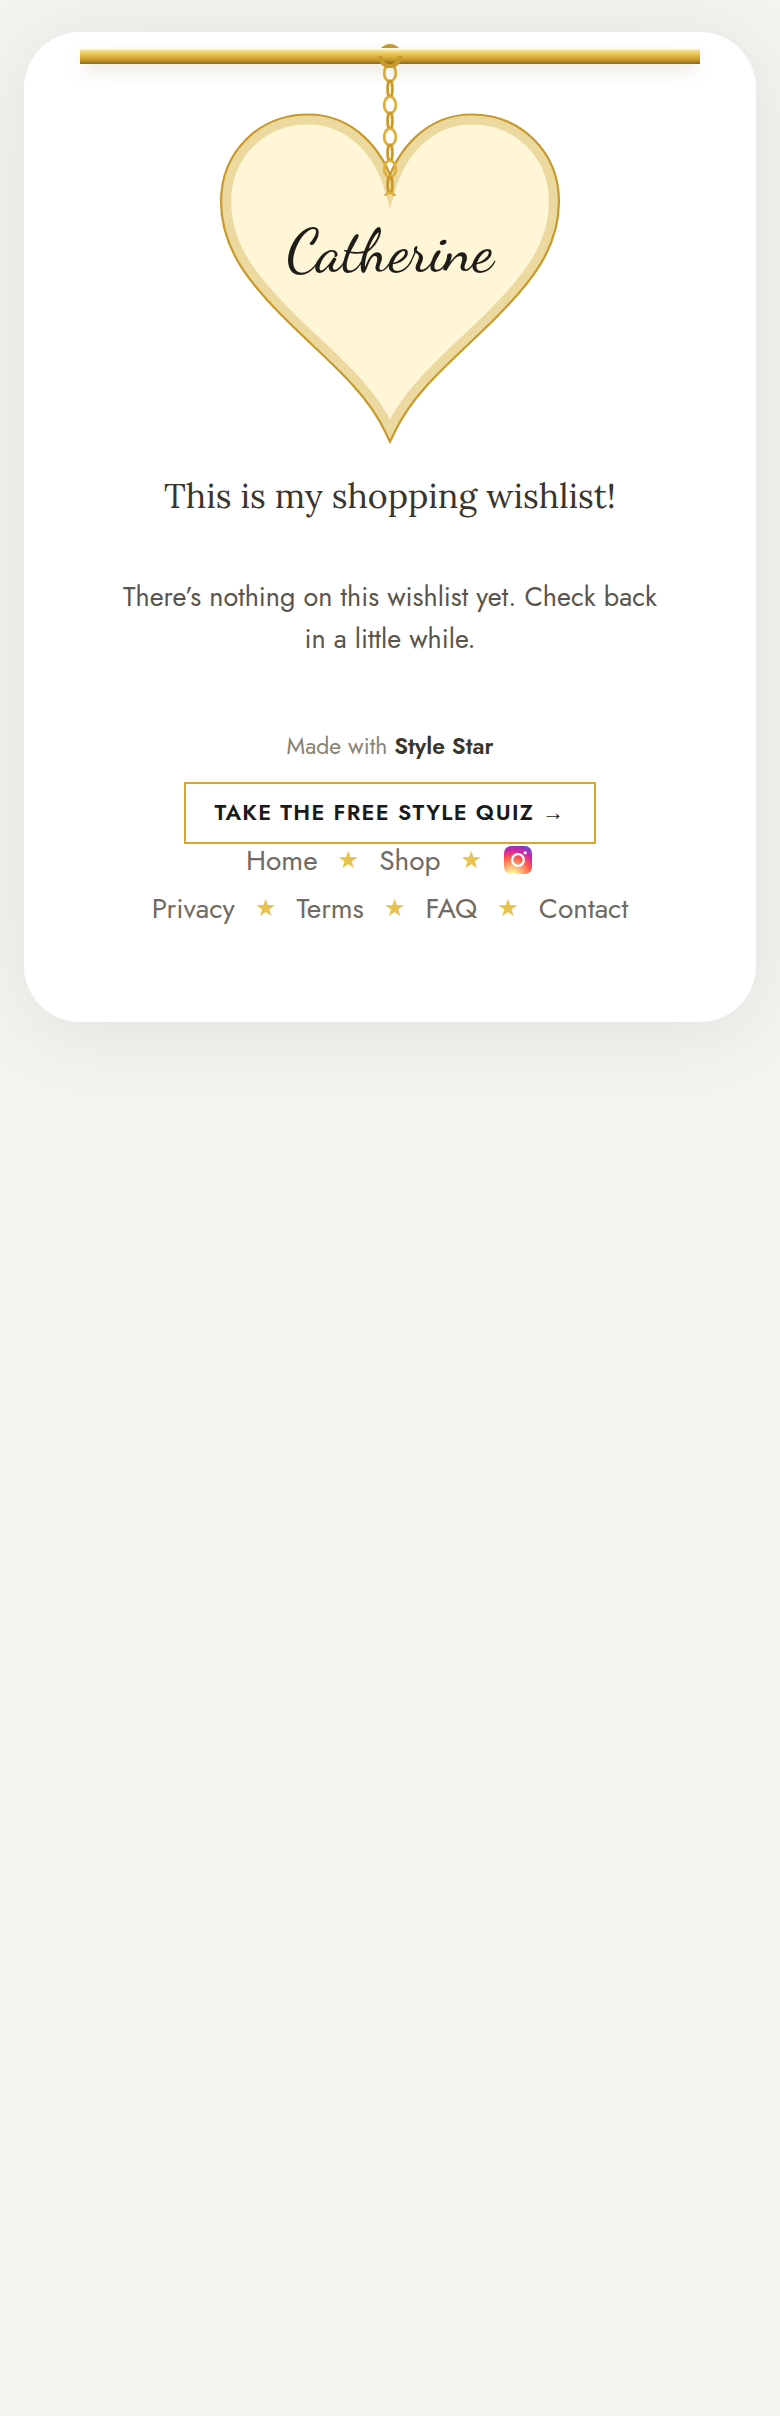
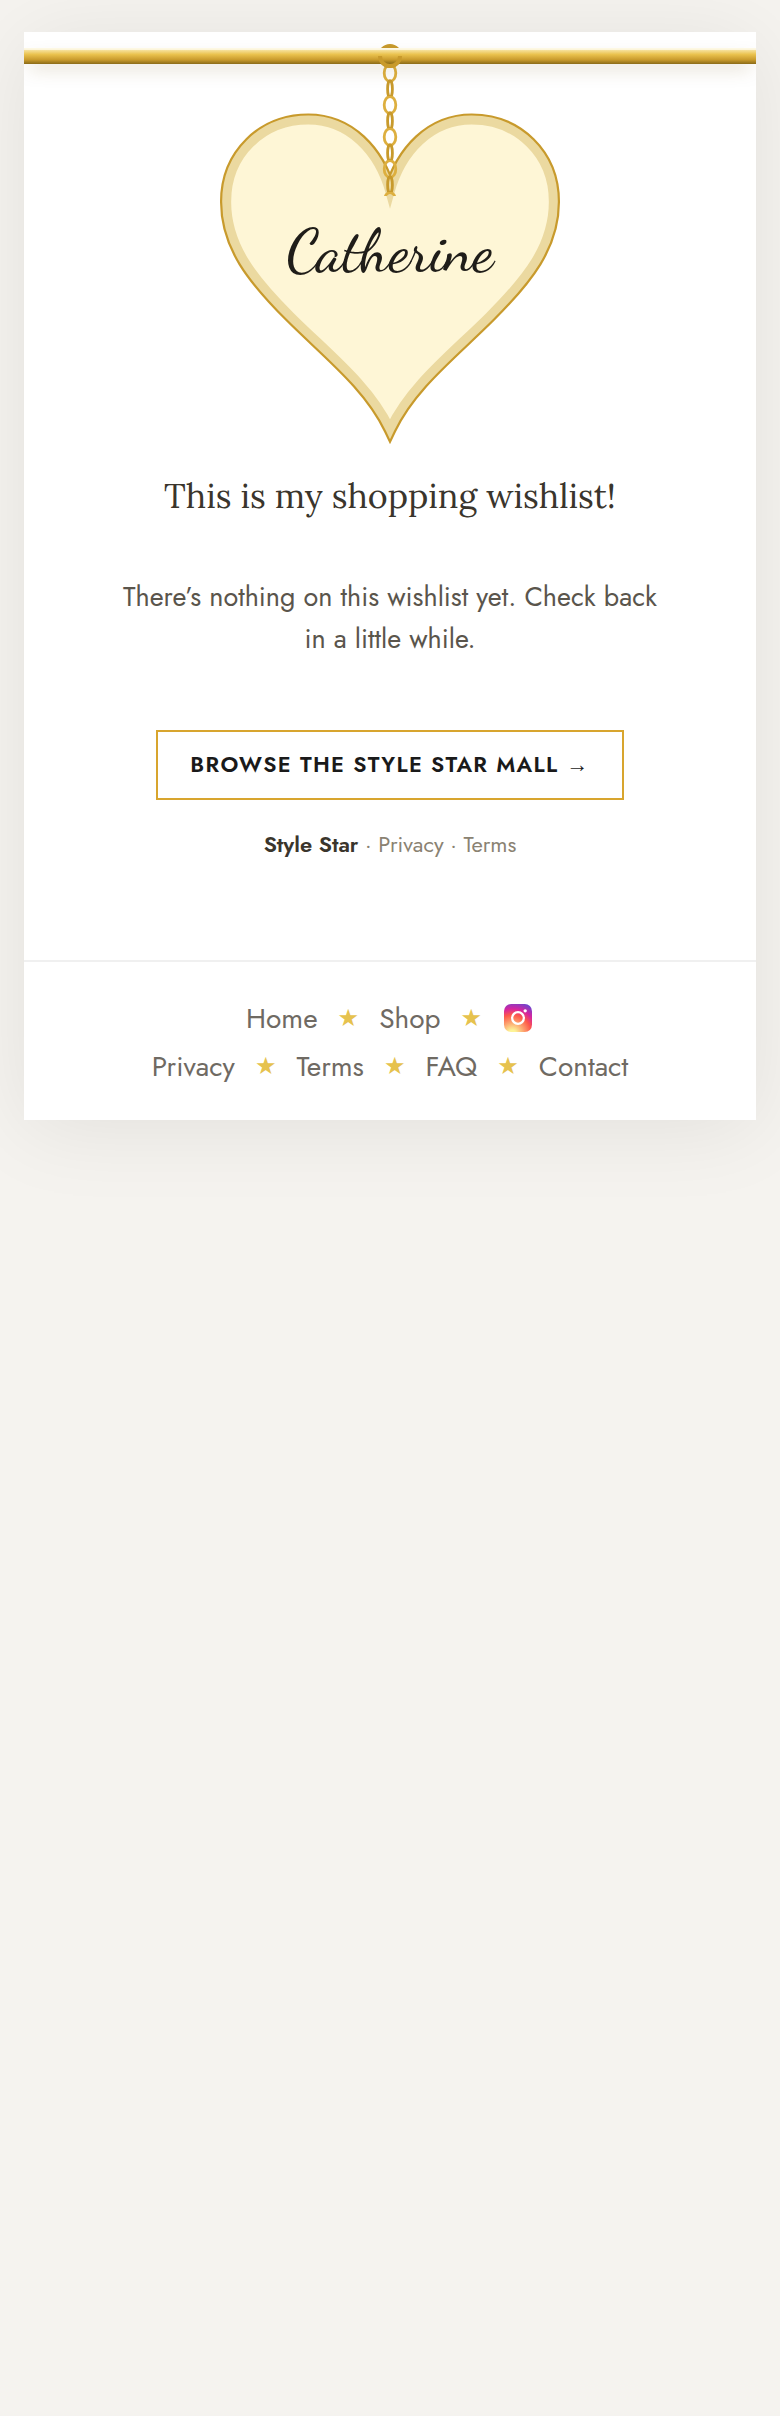
Her four adjustments to the shared page, and the footer that came back
1. SQUARED, not rounded. s-sharelist joins the screens that already square the
   card, so the crown's rod meets a corner rather than a curve.

2. THE ROD REACHES THE CARD'S EDGES. -44px is MEASURED, not chosen: .scr pads
   16px and .inner pads 28px, and 44px is exactly what escapes both to land on
   .ss's own edge (12→378 at 390px). It lands FLUSH rather than overhanging,
   which is load-bearing -- .ss carries overflow:hidden, so anything past the
   edge is clipped away rather than bleeding. If either padding changes, this
   number changes with it.

3. TIGHTER AIR between her line, the disclosure and the first group header
   (disclosure 26 -> 13px, first header 24 -> 12px). ⚠ Not a reversal of the
   "push it lower" call two rounds ago: that one was about the disclosure
   crowding her NAME. This is the whole block being too airy once the name
   moved inside the heart.

4. THE TAIL IS HERS. The quiz button and the two-row footer are gone -- her
   read, and it is right: a page of app chrome under somebody's personal gift
   list reads as an advertisement stapled to it. ▶ What replaces it is HER
   idea and it is the better one: ONE Mall entry, for a reader who wants to
   browse rather than buy a named piece. The quiz button was asking a stranger
   for twelve answers before giving them anything.
   ⚠ THE LEGAL PAIR STAYS, deliberately and against "we don't need any of
   that here", and she was told plainly: this is a public page carrying
[…]

diff --git a/index.html b/index.html
@@ -1262,7 +1262,12 @@ html.edit-velvet,html.edit-velvet body{background:#0E7F8C}
    matters more than the last few pixels of bleed, and a rod in flow gets
    that for free with no scroll listener at all. Don't 'upgrade' it to
    fixed without bringing the scroll sync with it. */
-#s-sharelist .sh-rodwrap{position:relative;height:8px;margin:0 -16px}
+/* ⚠ -44px is MEASURED, not chosen: .scr pads 16px and .inner pads 28px, so
+   44px is exactly what it takes to reach .ss's own edges (12→378 at 390).
+   It lands flush rather than overhanging, which matters because .ss carries
+   overflow:hidden -- anything past the edge is simply clipped away. If either
+   padding ever changes, this number changes with it. */
+#s-sharelist .sh-rodwrap{position:relative;height:8px;margin:0 -44px}
 #s-sharelist .sh-rod{position:absolute;inset:0;height:8px;z-index:6;background:linear-gradient(180deg,#FBF1C2 0%,#EAC24E 40%,#C89A2C 74%,#8a6a17 100%);box-shadow:0 4px 9px -3px rgba(120,90,20,.5),inset 0 1px 0 rgba(255,255,255,.6)}
 #s-sharelist .sh-crown{position:relative;width:196px;height:196px;margin:6px auto 0}
 #s-sharelist .sh-chain{position:absolute;left:calc(50% - 4px);bottom:calc(100% - 60px);width:8px;height:66px;z-index:1}
@@ -1277,11 +1282,14 @@ html.edit-velvet,html.edit-velvet body{background:#0E7F8C}
 /* ⚠ Pushed lower at her ask, but it CANNOT move below the list: the FTC
    guidance and every affiliate reviewer expect a disclosure above the links
    it describes. Its position is the one thing here that is not a taste call. */
-#s-sharelist .sh-disc{font:400 11.5px/1.4 'DM Sans',sans-serif;color:#6e6e6e;text-align:center;margin:26px 0 0}
+#s-sharelist .sh-disc{font:400 11.5px/1.4 'DM Sans',sans-serif;color:#6e6e6e;text-align:center;margin:13px 0 0}
+/* The first group follows the disclosure and needs less air than the second,
+   which follows a whole card of rows. */
+#s-sharelist .sh-disc+.sh-gh{margin-top:12px}
 /* Both group headers reuse HER approved section-header mark: a 2px #D8A52E bar
    hugging the word, exactly as the wardrobe categories and the Menu groups do.
    Grep wdr-cat-t before restyling either -- they are meant to match. */
-#s-sharelist .sh-gh{margin:24px 0 0;text-align:center}
+#s-sharelist .sh-gh{margin:22px 0 0;text-align:center}
 #s-sharelist .sh-gh span{display:inline-block;position:relative;padding:0 2px 6px;font:700 15px/1 'Jost',sans-serif;letter-spacing:.14em;text-transform:uppercase;color:#26221c}
 #s-sharelist .sh-gh span::after{content:"";position:absolute;left:2px;right:-2px;bottom:0;height:2px;background:#D8A52E}
 #s-sharelist .sh-card{background:#fff;border:1px solid #e7e0cf;padding:2px 12px 4px;margin-top:9px}
@@ -1301,10 +1309,22 @@ html.edit-velvet,html.edit-velvet body{background:#0E7F8C}
    marks it as an annotation so it can never read as the retailer's copy. */
 #s-sharelist .sh-note{display:block;font:400 12.5px/1.5 'Jost',sans-serif;color:#5a554c;margin-top:7px;padding-left:9px;border-left:2px solid #E0B84C}
 #s-sharelist .sh-go{flex:0 0 auto;margin-top:2px;font:600 11px/1 'Jost',sans-serif;letter-spacing:.05em;text-transform:uppercase;color:#fff;background:#1a1a1a;border-radius:999px;padding:9px 12px;text-decoration:none;white-space:nowrap}
+/* HER CALL 2026-08-22: the quiz button and the full two-row footer are gone.
+   This is somebody's personal wishlist, not the app's front door, and a page
+   of app chrome under it read as an advertisement stapled to a gift list.
+   ▶ What replaces it is HER idea and it is the better one: ONE way in, for a
+   reader who wants to browse rather than buy a named piece. The Mall is
+   exactly that door.
+   ⚠ The legal pair STAYS, deliberately and against "we don't need any of
+   that here": this is a public page carrying affiliate links and running
+   analytics, and a reachable privacy policy is both ordinary good practice
+   and the specific thing affiliate reviewers look for. It is one 11px line,
+   not a footer. */
 #s-sharelist .sh-foot{text-align:center;margin-top:24px}
-#s-sharelist .sh-f1{font:400 11.5px/1.5 'Jost',sans-serif;color:#8a8272}
-#s-sharelist .sh-f1 b{color:#3a352c;font-weight:600}
-#s-sharelist .sh-f2{display:inline-block;margin-top:9px;font:600 11px/1 'Jost',sans-serif;letter-spacing:.06em;text-transform:uppercase;color:#1a1a1a;border:1px solid #D8A52E;padding:9px 14px;text-decoration:none;cursor:pointer}
+#s-sharelist .sh-f2{display:inline-block;font:600 11px/1 'Jost',sans-serif;letter-spacing:.06em;text-transform:uppercase;color:#1a1a1a;border:1px solid #D8A52E;padding:11px 16px;text-decoration:none;cursor:pointer}
+#s-sharelist .sh-legal{font:400 11px/1.5 'Jost',sans-serif;color:#8a8272;margin-top:14px}
+#s-sharelist .sh-legal .lnk{color:#8a8272;cursor:pointer;text-decoration:none}
+#s-sharelist .sh-legal b{color:#3a352c;font-weight:600}
 /* Waiting, gone and empty are all real states of this page -- somebody arrives
    here from a text message with no idea what to expect, so none of them may be
    a blank screen or a raw error. */
@@ -4164,7 +4184,6 @@ body.ss-play .hm-entrance{animation:ssOverlayOut .55s ease 1.6s forwards}
     <div class="sh-nm" id="shName"></div>
   </div>
   <div id="shBody"></div>
-  <div class="wl-foot" data-std-foot></div>
 </div>
 
 <div class="scr" id="s-faq">
@@ -4636,7 +4655,13 @@ function show(id,skipHistory){
   // of their own but still want the global one hidden (the quiz, preferences).
   var scrEl=document.getElementById(id);
   var ownFoot=!!(scrEl&&scrEl.querySelector('[data-std-foot]'));
-  if(gf)gf.style.display=(ownChrome||ownFoot||id==='s-shop'||id==='s-quiz'||id==='s-faq'||id==='s-pref'||id==='s-story'||id==='s-privacy'||id==='s-terms'||id==='s-contact'||id==='s-a2hs'||id==='s-wardrobe'||id==='s-wishlist')?'none':'';
+  // ⚠ s-sharelist is here for the reason the comment above predicts: it USED to
+  // carry its own [data-std-foot], so ownFoot hid the global one for free.
+  // Taking that footer off (her call) silently un-hid the global footer, and the
+  // render caught it -- two rows of app chrome under somebody's gift list. That
+  // is the hardcoded-list failure mode happening to the very list the comment
+  // warns about, one screen after it was written.
+  if(gf)gf.style.display=(ownChrome||ownFoot||id==='s-shop'||id==='s-quiz'||id==='s-faq'||id==='s-pref'||id==='s-story'||id==='s-privacy'||id==='s-terms'||id==='s-contact'||id==='s-a2hs'||id==='s-wardrobe'||id==='s-wishlist'||id==='s-sharelist')?'none':'';
   if(id==='s-wb')updateWbScreen();
   // ⚠ BOTH call sites are load-bearing: the BOOT path adds .act to s-wel
   // directly, without going through show(), exactly as it does for s-wb. A
@@ -4650,7 +4675,7 @@ function show(id,skipHistory){
   // Square the full card on the curtain/dark full-bleed screens and the
   // framed outfit-upload screen so their backgrounds match the squared
   // framed pages (no rounded corners).
-  if(card)card.classList.toggle('sqall',id==='s-wel'||id==='s-wb'||id==='s-res'||id==='s-photo-res'||id==='s-photo'||id==='s-photo-load'||id==='s-shop');
+  if(card)card.classList.toggle('sqall',id==='s-wel'||id==='s-wb'||id==='s-res'||id==='s-photo-res'||id==='s-photo'||id==='s-photo-load'||id==='s-shop'||id==='s-sharelist');
   // Outfit results + the outfit-upload screens: let their full-bleed elements (the framed
   // rooms; the gold rod at the top) bleed to the true screen edges (drop the card's side margin).
   document.body.classList.toggle('res-fb',id==='s-photo-res'||id==='s-photo'||id==='s-photo-load'||id==='s-res');
@@ -9250,8 +9275,7 @@ function _renderSharedGone(){
   el.innerHTML='<div class="sh-gone"><h4>This wishlist isn&rsquo;t here</h4>'
     +'<p>The link may have been turned off, or it may have a typo in it. '
     +'Ask whoever sent it to share it again.</p></div>'
-    +'<div class="sh-foot"><div class="sh-f1">Made with <b>Style Star</b></div>'
-    +'<span class="sh-f2" onclick="goHome()">See what Style Star is &rarr;</span></div>';
+    +_shTail();
 }
 function _renderSharedList(d){
   var el=document.getElementById('shBody');
@@ -9276,9 +9300,17 @@ function _renderSharedList(d){
     h+=_shGroup('Buy exactly this',list.filter(function(it){return it&&it.exact}));
     h+=_shGroup('Anything like this',list.filter(function(it){return it&&!it.exact}));
   }
-  h+='<div class="sh-foot"><div class="sh-f1">Made with <b>Style Star</b></div>'
-    +'<span class="sh-f2" onclick="goHome()">Take the free style quiz &rarr;</span></div>';
+  h+=_shTail();
   el.innerHTML=h;
+}
+// One way in and one quiet legal line -- see the CSS note above for why the
+// quiz button and the full footer came off, and why Privacy and Terms did not.
+function _shTail(){
+  return '<div class="sh-foot">'
+    +'<span class="sh-f2" onclick="showShop()">Browse the Style Star Mall &rarr;</span>'
+    +'<div class="sh-legal"><b>Style Star</b> &middot; '
+    +'<span class="lnk" onclick="showPrivacy()">Privacy</span> &middot; '
+    +'<span class="lnk" onclick="showTerms()">Terms</span></div></div>';
 }
 function _shGroup(label,rows){
   if(!rows.length)return '';

diff --git a/scratchpad/sharepage.js b/scratchpad/sharepage.js
@@ -174,12 +174,44 @@ const cr = await pg.evaluate(() => {
 for (const [k, r] of Object.entries(cr)) ok(`${k} clears AA (${r}:1)`, r >= 4.5, String(r));
 await ctx.close();
 
-console.log('\n6. A stranger can get from here into the app');
+console.log('\n6. The tail: one way in, and the legal pair');
 ({ ctx, pg } = await open());
+const tail = await pg.evaluate(() => ({
+  quizBtn: /style quiz/i.test(document.querySelector('#s-sharelist .sh-foot').textContent),
+  stdFoot: document.querySelectorAll('#s-sharelist [data-std-foot]').length,
+  mall: (document.querySelector('#s-sharelist .sh-f2') || {}).textContent || '',
+  legal: (document.querySelector('#s-sharelist .sh-legal') || {}).textContent || ''
+}));
+ok('the quiz button is gone (her call)', !tail.quizBtn);
+ok('the standard two-row footer is gone (her call)', tail.stdFoot === 0);
+// ⚠ Taking the screen's OWN footer off un-hid the GLOBAL one, because show()
+// hides that via a hardcoded id list plus "does this screen own a footer".
+// Pin the visible outcome, not the mechanism.
+ok('...and the GLOBAL footer did not reappear in its place',
+   await pg.evaluate(() => { const g = document.querySelector('.quiz-footer');
+     return !g || getComputedStyle(g).display === 'none'; }));
+ok('one Mall entry, for a reader who wants to browse', /Style Star Mall/.test(tail.mall));
+ok('Privacy and Terms stay reachable on a public page',
+   /Privacy/.test(tail.legal) && /Terms/.test(tail.legal));
 await pg.evaluate(() => document.querySelector('#s-sharelist .sh-f2').click());
-await pg.waitForTimeout(500);
-ok('the footer CTA lands her on the welcome screen',
-   await pg.evaluate(() => !!document.querySelector('#s-wel.act') || !!document.querySelector('#s-wb.act')));
+await pg.waitForTimeout(600);
+ok('the Mall entry really opens the Mall', await pg.evaluate(() => !!document.querySelector('#s-shop.act')));
+await ctx.close();
+
+console.log('\n6b. Her two layout calls, measured');
+({ ctx, pg } = await open());
+const geo = await pg.evaluate(() => {
+  const ss = document.querySelector('.ss').getBoundingClientRect();
+  const rod = document.querySelector('#s-sharelist .sh-rod').getBoundingClientRect();
+  return {
+    squared: getComputedStyle(document.querySelector('.ss')).borderRadius === '0px',
+    leftGap: Math.round((rod.left - ss.left) * 10) / 10,
+    rightGap: Math.round((ss.right - rod.right) * 10) / 10
+  };
+});
+ok('the card is squared, not rounded', geo.squared);
+ok('the rod reaches the card\'s left edge', Math.abs(geo.leftGap) <= 0.6, geo.leftGap + 'px short');
+ok('...and its right edge', Math.abs(geo.rightGap) <= 0.6, geo.rightGap + 'px short');
 await ctx.close();
 
 console.log('\n7. The three other states are all kind, never blank');

diff --git a/scratchpad/nav.js b/scratchpad/nav.js
@@ -74,11 +74,12 @@ const foots = await page.evaluate(() => {
 });
 // 14 since the "Add as an App" page joined the family (Cath, 2026-08-19) and
 // carries the same standard footer as its siblings. Deliberate update.
-// 14 → 15 deliberately 2026-08-22: the shared wishlist at /list/<token> carries
-// one too. ⚠ It is the only footer a NON-USER ever sees, which is exactly why
-// it earns one: Privacy and Terms on a public page are what make it read as a
-// real business rather than a scraped list, and Home is the way in.
-ok('exactly 15 standard-footer containers', foots.n === 15, 'got ' + foots.n);
+// ⚠ STILL 14, and the round trip is worth recording: the shared wishlist at
+// /list/<token> briefly carried a standard footer, and her call was that a page
+// of app chrome under somebody's personal gift list reads as an advertisement
+// stapled to it. It has its own quiet tail instead -- one Mall entry and an
+// 11px Privacy · Terms line -- so this count is unchanged after all.
+ok('exactly 14 standard-footer containers', foots.n === 14, 'got ' + foots.n);
 const links = await page.evaluate(() => ({
   main: [...document.querySelectorAll('.quiz-footer .sf-row .lnk')].map(e => e.textContent),
   info: [...document.querySelectorAll('.quiz-footer .sf-row2 .lnk')].map(e => e.textContent)
